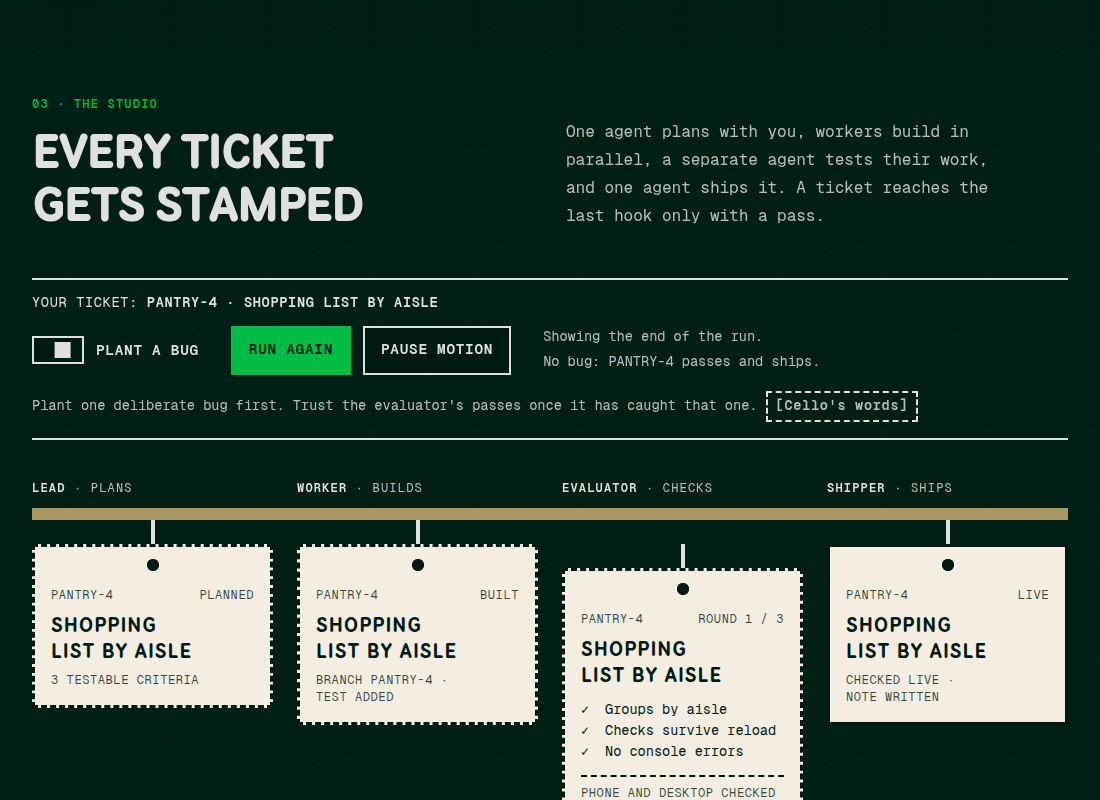
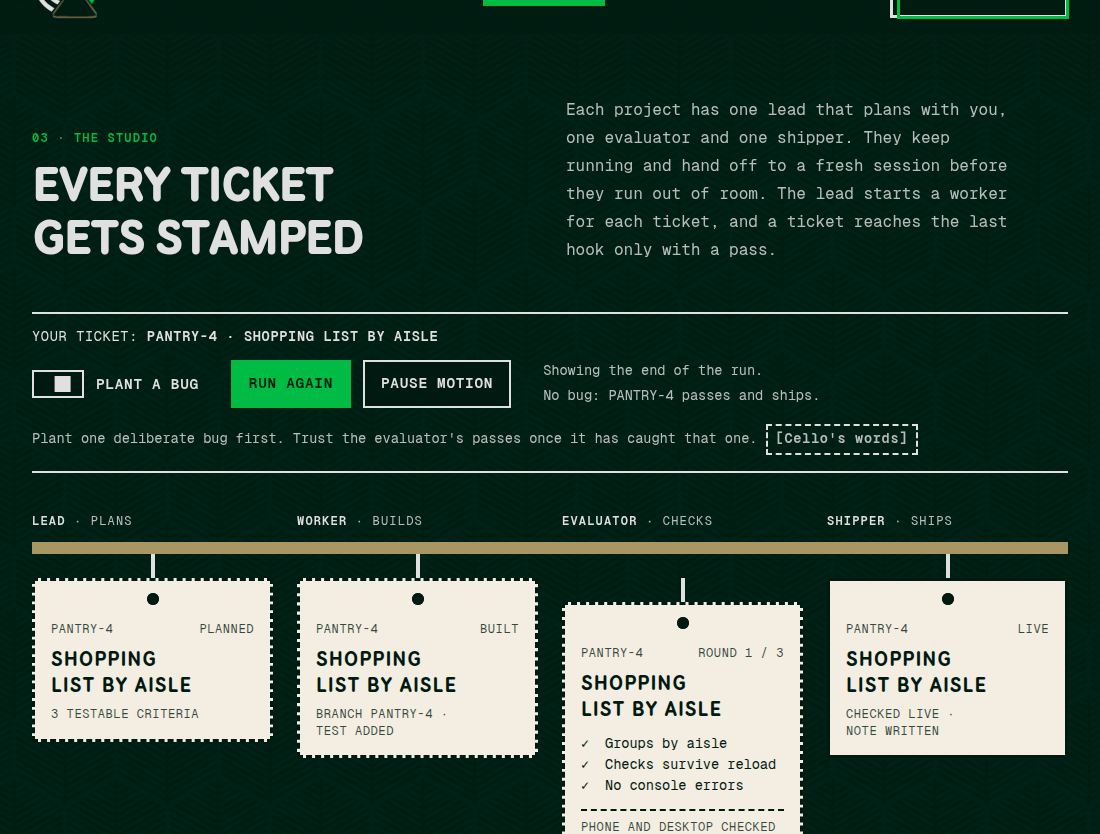
Studio roles: lead, evaluator and shipper per project; a worker per ticket
Cello: the lead, evaluator and shipper are persistent per project and hand
off to a fresh-context session of the same role when they run low on
context or usage; the lead creates a worker per ticket. Prompt 3 described
the evaluator as a fresh subagent and had no hand-off rule, and the page
implied agents per change.
- prompt 3: roles say per project / per ticket; new Long-running roles
  paragraph (hand-off via the handoff skill from prompt 2)
- hero and meta description, studio intro, story 2 step
Downloads still match the sources byte for byte; ak-3 and ak-4 verify
green; axe clean.

diff --git a/src/content/agent-kit/prompts/3-studio-pipeline.md b/src/content/agent-kit/prompts/3-studio-pipeline.md
@@ -47,10 +47,12 @@ Then propose a folder layout (on Windows: app repos and dev servers inside WSL2,
 ## Phase 2: the pipeline
 
 **Roles**
-- **Lead** (one session per app, the one I talk to): `grill-me` me → `research` (optionally a `reference-study`: REA on one app + feature I like → observed behavior, evidence, 2–3 concepts, a recommendation; I pick) → optional `prototype` → plan in `projects/<app>.md` (goal, who it's for, screens, data, decisions) → small tickets, each with 2–5 testable acceptance criteria. Makes product calls with me. Never writes big code itself.
-- **Workers** (subagents or separate sessions, one ticket each): build in their own git branch/worktree, add or update a Playwright test, run the checks, and hand back: branch + commit, what changed, checks run, screenshots, anything unfinished. Never merge, deploy or write their own evals.
-- **Evaluator** (a separate subagent with fresh context): gets ONLY the acceptance criteria, the standing criteria and the running app, never the worker's chat. Walks each criterion with Playwright MCP at phone and desktop size, checks console, network, performance and audits with DevTools MCP, and writes `docs/evals/<ticket>.md`: pass/fail per criterion with evidence, measured results separate from its opinion. Verdict: PASS, or FAIL with specific fixes. On FAIL the worker fixes and it goes back, max 3 rounds, then it escalates to the lead and me. Never edits code.
-- **Shipper** (at first the lead runs this through a background subagent; its own session once 2+ workers run at once): accepts only a PASS eval on that exact commit, merges to main, deploys, re-runs a quick eval on the live URL, writes a one-paragraph release note to `output/` in the brain, and tells me what shipped.
+- **Lead** (one persistent session per project, the one I talk to): `grill-me` me → `research` (optionally a `reference-study`: REA on one app + feature I like → observed behavior, evidence, 2–3 concepts, a recommendation; I pick) → optional `prototype` → plan in `projects/<app>.md` (goal, who it's for, screens, data, decisions) → small tickets, each with 2–5 testable acceptance criteria. Makes product calls with me. Never writes big code itself.
+- **Workers** (the lead creates one per ticket, as a subagent or a separate session): build in their own git branch/worktree, add or update a Playwright test, run the checks, and hand back: branch + commit, what changed, checks run, screenshots, anything unfinished. Never merge, deploy or write their own evals.
+- **Evaluator** (one persistent session per project, separate from the workers): gets ONLY the acceptance criteria, the standing criteria and the running app, never the worker's chat. Walks each criterion with Playwright MCP at phone and desktop size, checks console, network, performance and audits with DevTools MCP, and writes `docs/evals/<ticket>.md`: pass/fail per criterion with evidence, measured results separate from its opinion. Verdict: PASS, or FAIL with specific fixes. On FAIL the worker fixes and it goes back, max 3 rounds, then it escalates to the lead and me. Never edits code.
+- **Shipper** (one persistent session per project; while only one worker runs, the lead can run it through a background subagent): accepts only a PASS eval on that exact commit, merges to main, deploys, re-runs a quick eval on the live URL, writes a one-paragraph release note to `output/` in the brain, and tells me what shipped.
+
+**Long-running roles:** the lead, evaluator and shipper stay up for the life of the project. When one runs low on context or usage, it summarizes its state into the project note and hands off to a fresh session of the same role (the `handoff` skill from prompt 2). Workers are short-lived: one ticket, then done.
 
 **Standing criteria** for every app (in its `docs/ship-profile.md`): no console errors, no failed requests, accessibility ≥ 90, installs as a PWA, works at phone width, usable within ~3s on a throttled mobile connection.
 
